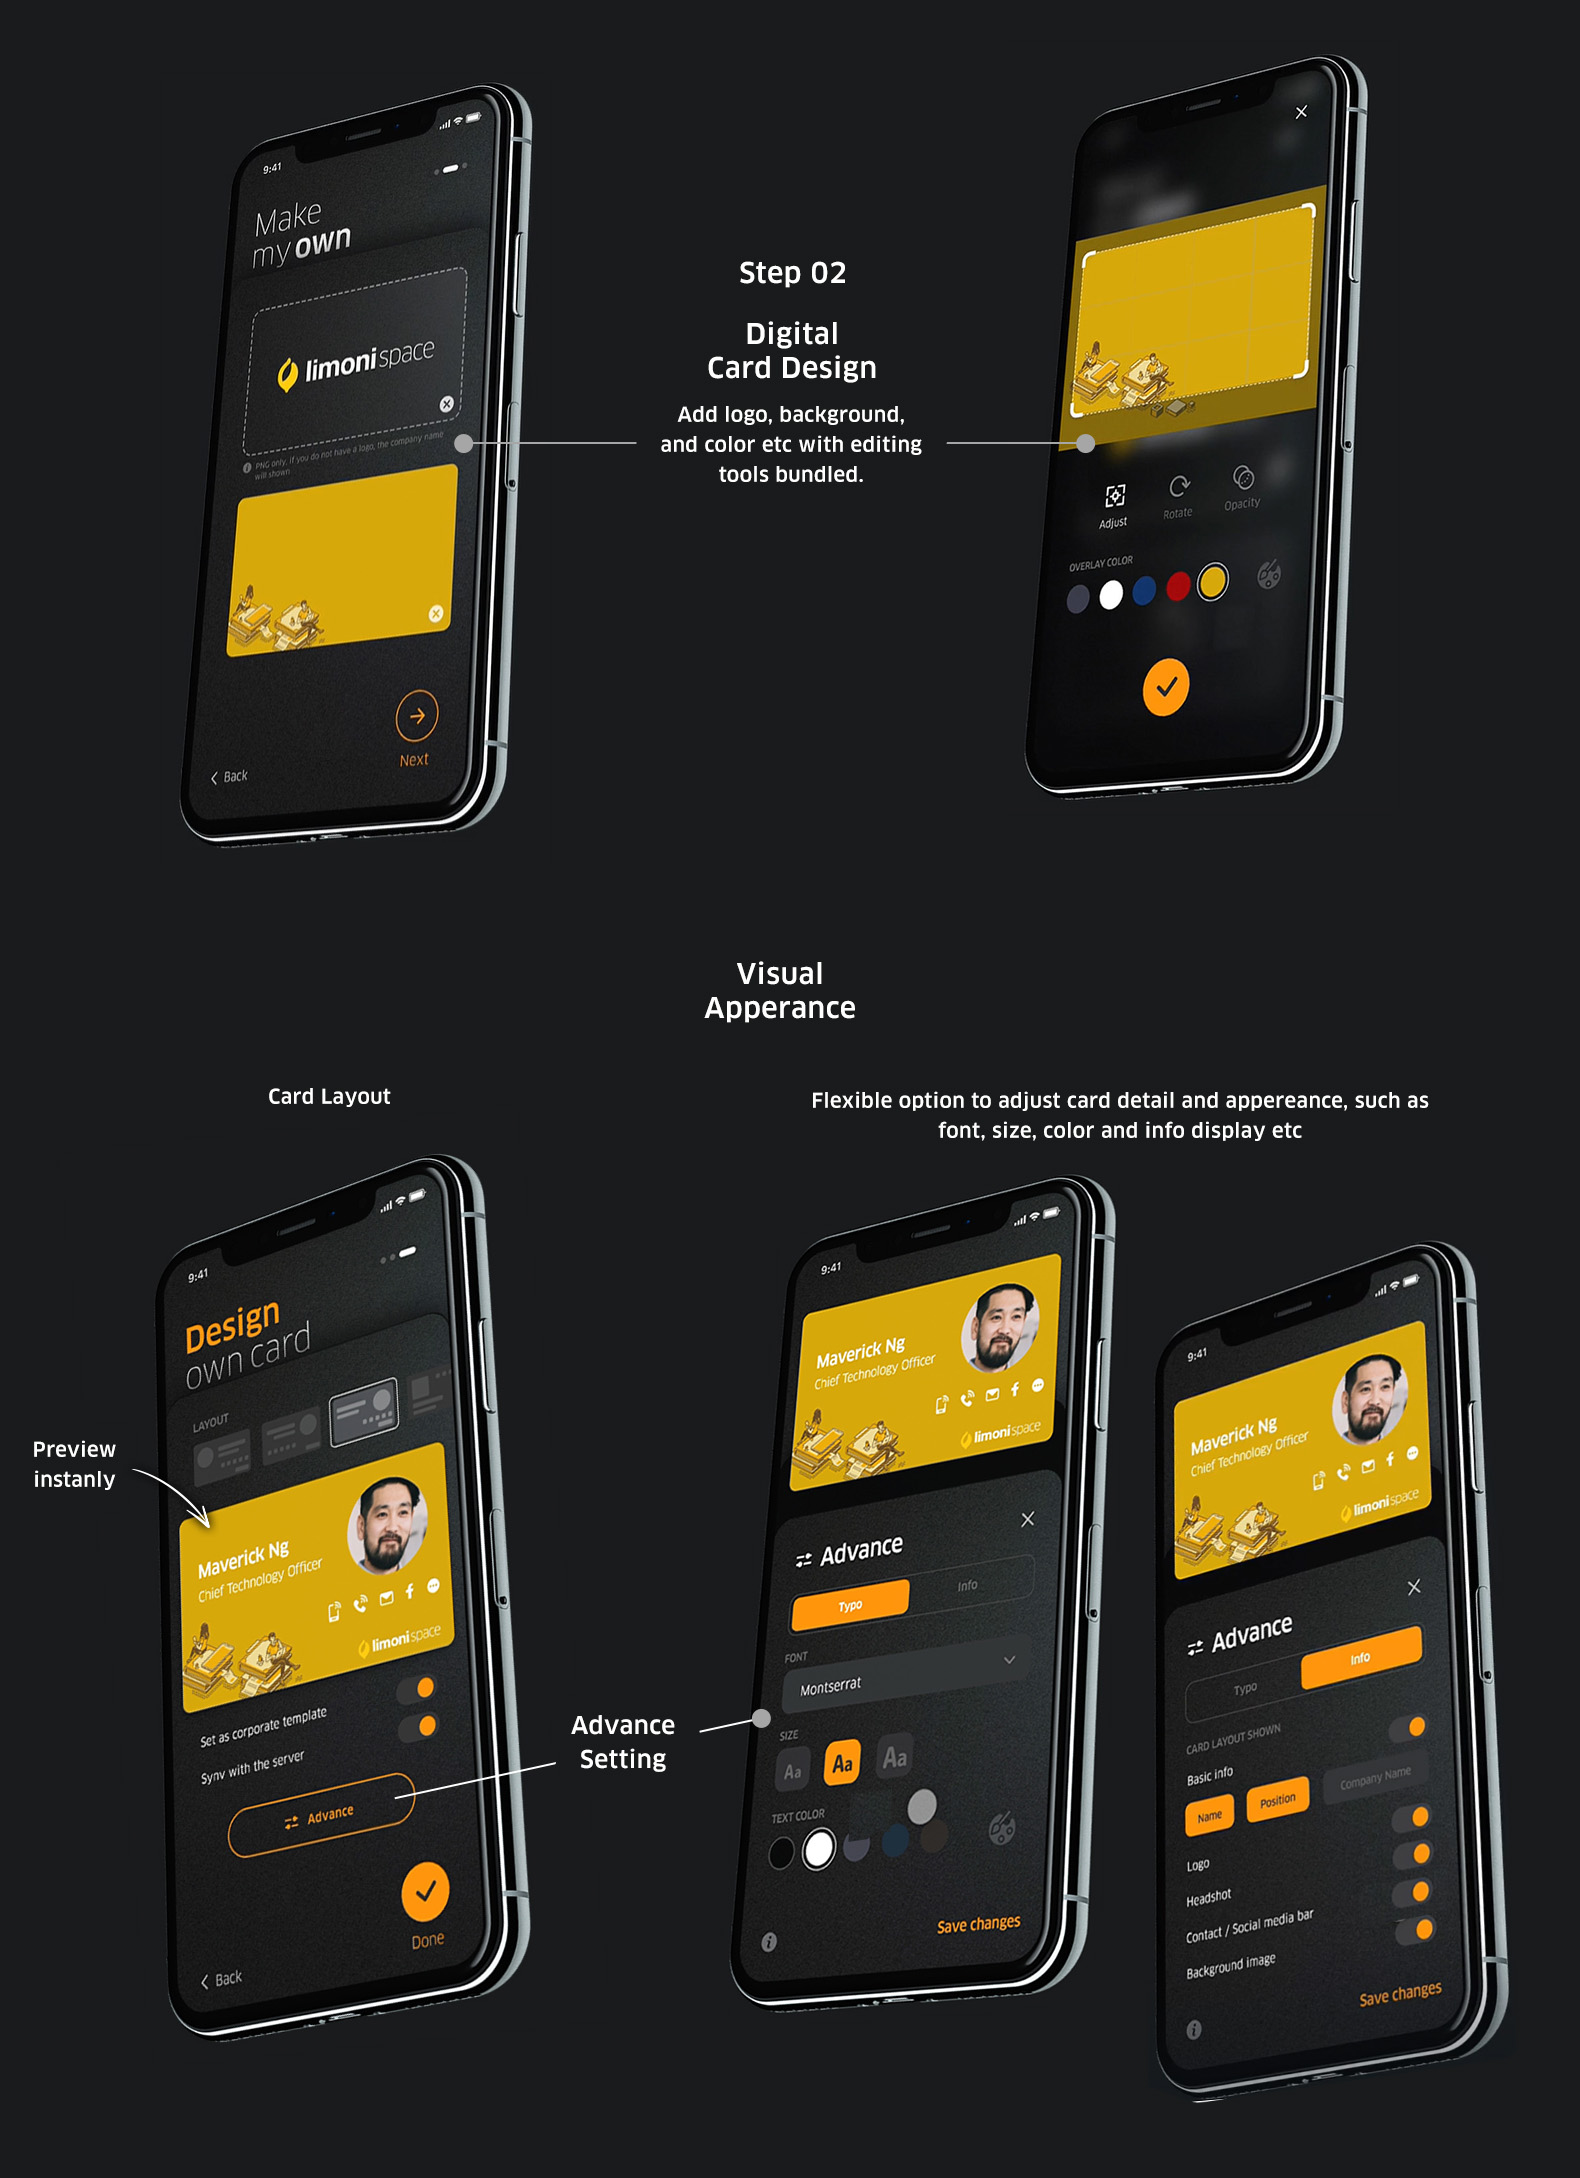
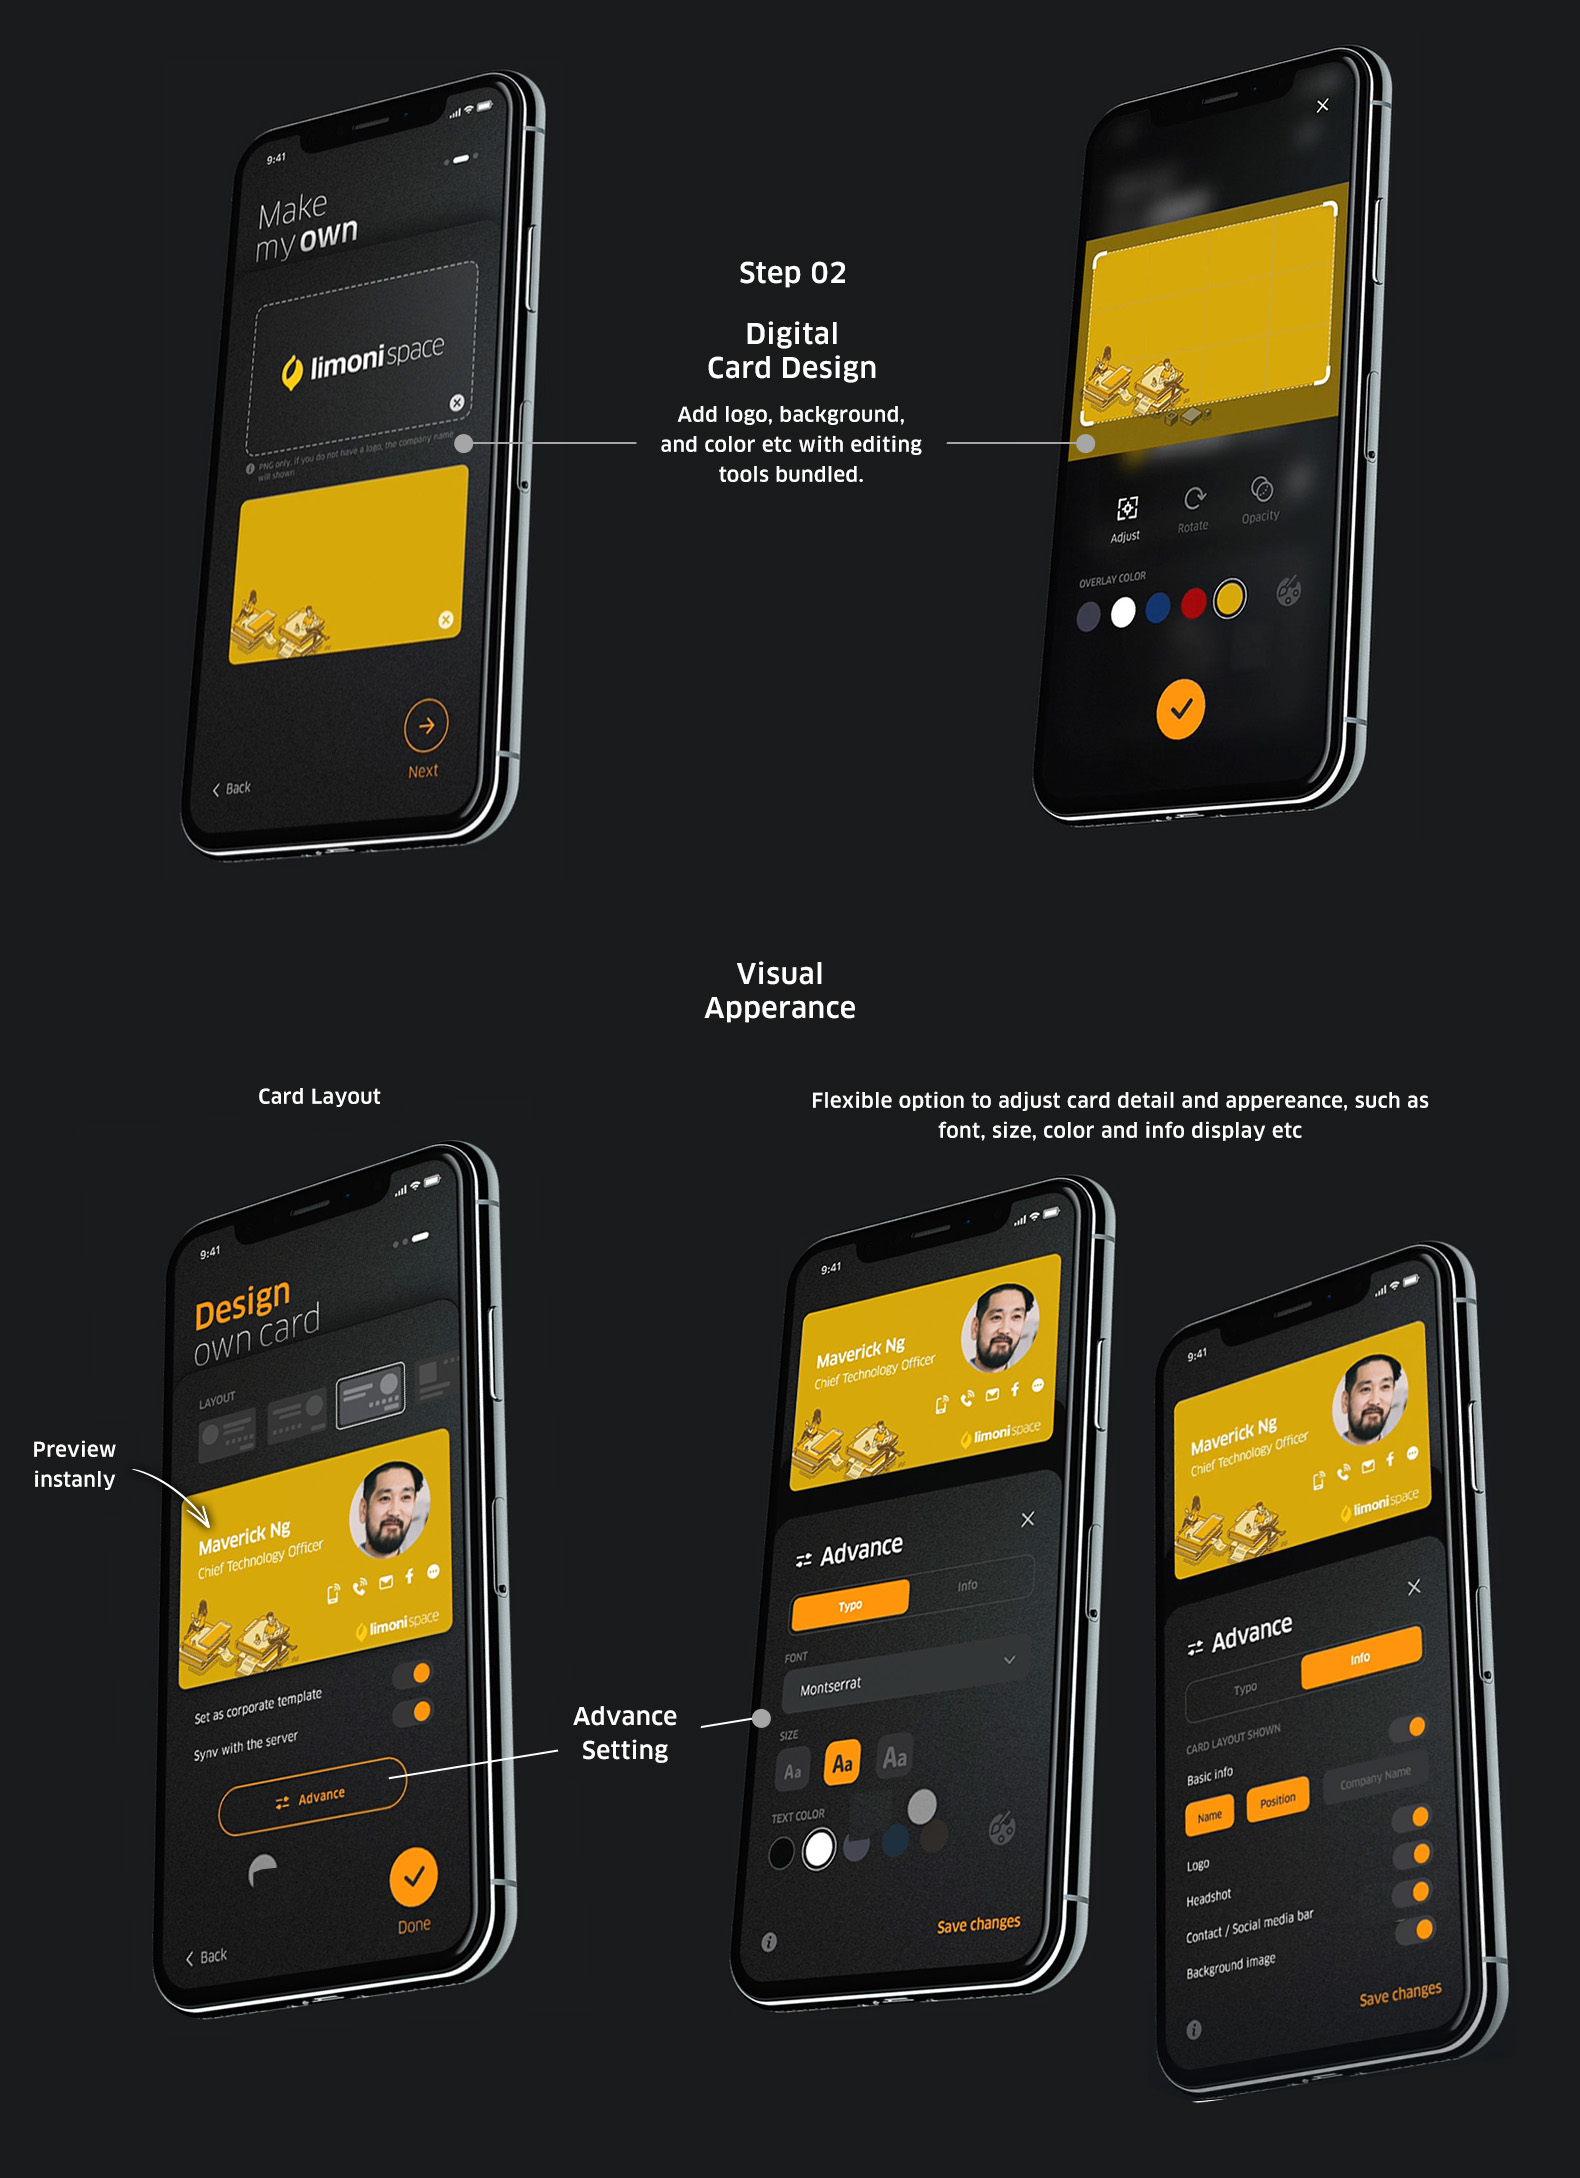
191223

diff --git a/project/rollcase.html b/project/rollcase.html
@@ -998,17 +998,12 @@ GOOD Design Thinking ref: https://www.uisdc.com/diamond-model-5e-mode-->
 
     <div class="copy-width spacing-copy">
       <p class="observable body h1 spacing-title">Start all over</p>
-      <p class="observable body spacing-small">Step 1 - Contact Info<br>Via address book, mail and vCard format synchronize through thier phone so that prevent manual import errors. The head icon is optional add or not if needed.</p>
+      <p class="observable body spacing-small"><i>Step 01 - Contact Info</i><br>Via address book, mail and vCard format synchronize through thier phone so that prevent manual import errors. The head icon is optional add or not if needed.</p>
     </div>
 
 
     <div class="body-width-small observable spacing-small">
       <a class="image-popup-fit-width" title="Click on image to enlarge/reduce it"  href="../images/projects/rollcase/startallover_step1.jpg"><img class="spacing-medium observable lazy" data-src="../images/projects/rollcase/startallover_step1.jpg" /></a>
-    </div>
-
-
-    <div class="copy-width spacing-copy">
-      <p class="observable body spacing-sub-title">Step 2 - Digital card visual divided to 2 option : <!--<span class="material-icons m-icons-position" style="font-size:12pt;">open_in_new</span> <a class="image-popup-fit-width underlined" title="Click on image to enlarge/reduce it"  href="../images/projects/rollcase/create_step_02.jpg">Detail</a>--></p>
     </div>
 
 
@@ -1022,9 +1017,8 @@ GOOD Design Thinking ref: https://www.uisdc.com/diamond-model-5e-mode-->
 
 
     <div class="copy-width spacing-large">
-      <p class="observable body h6 spacing-title">2. Card Customize</p>
-
-      <p class="observable body spacing-sub-title"><i>Sub step 1 :</i><br>Add logo, background, and color etc with editing tools bundled. <span class="material-icons m-icons-position" style="font-size:12pt;">open_in_new</span> <a class="image-popup-fit-width underlined" style="opacity:0.8" title="Click on image to enlarge/reduce it"  href="../images/projects/rollcase/custom_detail_01.jpg">Detail</a></p>
+      <p class="observable body h6 spacing-title">Visual Apperance</p>
+      <p class="observable body spacing-sub-title"><i>Step 02 :</i><br>Add logo, background, and color etc with editing tools bundled. Also, allow users adjust the card details what info displaying on, such as layout, font style etc. Within as the user adjust their digital card, the layout will be change in preview instanly.</p>
     </div>
 
     <div class="body-width-small observable spacing-small">
@@ -1032,13 +1026,11 @@ GOOD Design Thinking ref: https://www.uisdc.com/diamond-model-5e-mode-->
     </div>
 
 
+
+
     <div class="copy-width spacing-large">
-      <p class="observable body spacing-small"><i>Sub step 2 :</i><br>Adjust the card detail what info displaying on, such as layout, font style etc. Within as the user adjust their digital card, the layout will be change in preview instanly. <span class="material-icons m-icons-position" style="font-size:12pt;">open_in_new</span> <a class="image-popup-fit-width underlined" style="opacity:0.8" title="Click on image to enlarge/reduce it"  href="../images/projects/rollcase/custom_detail_02a.jpg">Detail</a></p>
-
-
-
-
-      <p class="observable body spacing-sub-title"><p class="observable body spacing-sub-title"><i>Feature :</i><br>"Set as corporate template" <br>Created which cloud storage where share with workmate or teams. Reuse card template design to standardize with thier brand guideline to avoid duplicating efforts.</p>
+      <p class="observable body h1 spacing-title">Feature</p>
+      <p class="observable body spacing-sub-title"><p class="observable body spacing-sub-title">"Set as corporate template" <br>Created which cloud storage where share with workmate or teams. Reuse card template design to standardize with thier brand guideline to avoid duplicating efforts.</p>
 
 
 
